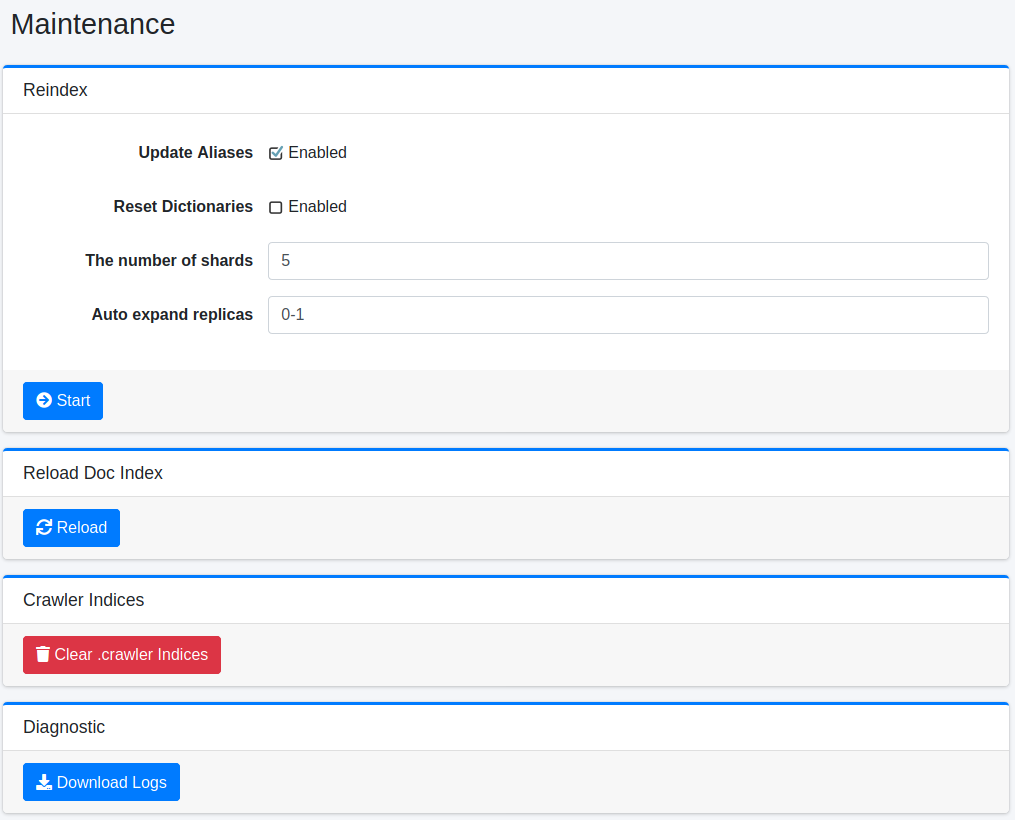
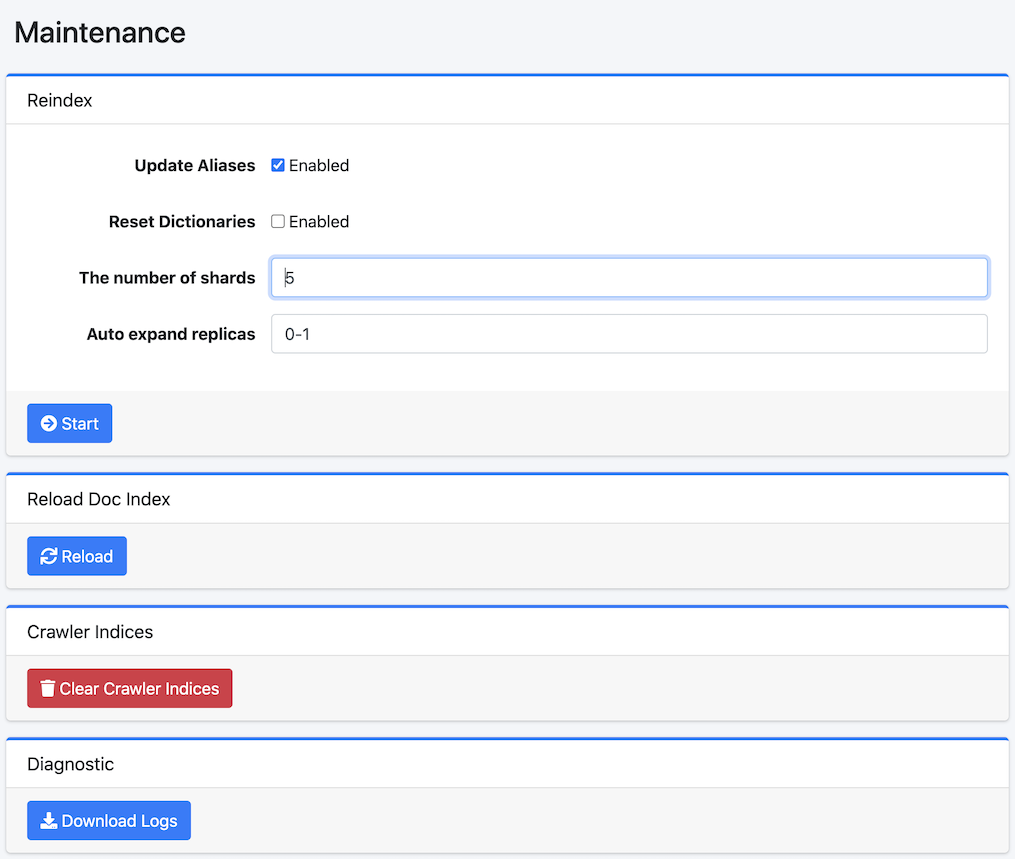
fix index name

diff --git a/ja/14.0/admin/dashboard-guide.rst b/ja/14.0/admin/dashboard-guide.rst
@@ -21,21 +21,21 @@
      - アクセスログ
    * - fess.suggest.YYYYMMDD
      - サジェストワード
-   * - .fess_config
+   * - fess_config
      - |Fess| の設定
-   * - .fess_user
+   * - fess_user
      - ユーザー/ロール/グループのデータ
-   * - .configsync
+   * - configsync
      - 辞書の設定
-   * - .suggest
+   * - fess_suggest
      - サジェストのメタデータ
-   * - .suggest_array
+   * - fess_suggest_array
      - サジェストのメタデータ
-   * - .suggest_badword
+   * - fess_suggest_badword
      - サジェストのNGワードリスト
-   * - .suggest_analyzer
+   * - fess_suggest_analyzer
      - サジェストのメタデータ
-   * - .crawler
+   * - fess_crawler
      - クロール情報
 
 

diff --git a/en/14.0/admin/dashboard-guide.rst b/en/14.0/admin/dashboard-guide.rst
@@ -21,19 +21,21 @@ Dashboard provides a web administration tool for elasticsearch to manage cluster
      - search logs
    * - fess.suggest
      - suggest words
-   * - .fess_config
+   * - fess_config
      - configurations
-   * - .fess_user
+   * - fess_user
      - user/role/group data
-   * - .configsync
+   * - configsync
      - configuration file data
-   * - .suggest
+   * - fess_suggest
      - suggest meta data
-   * - .suggest-array
+   * - fess_suggest_array
      - suggest meta data
-   * - .suggest-badword
+   * - fess_suggest_badword
      - excluding word list for suggest
-   * - .crawler
+   * - fess_suggest_analyzer
+     - suggest meta data
+   * - fess_crawler
      - crawling cache data
 
 

diff --git a/en/14.0/admin/maintenance-guide.rst b/en/14.0/admin/maintenance-guide.rst
@@ -48,7 +48,7 @@ Reload(Close/Open) fess index to apply index settings.
 Crawler Indices
 ---------------
 
-Remove .crawler index to clear crawling data.
+Remove Crawler index to clear crawling data.
 Do not execute this task when Crawler is running.
 
 Diagnostic
@@ -57,4 +57,3 @@ Diagnostic
 Download log files and system state information.
 
 .. |image0| image:: ../../../resources/images/en/14.0/admin/maintenance-1.png
-
